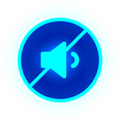
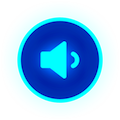
Remove iAd and Fix one sound button issue and added black launch image in launchscreen

diff --git a/SpaceUp/Controllers/GameViewController.swift b/SpaceUp/Controllers/GameViewController.swift
@@ -1,20 +1,18 @@
 import SpriteKit
 import GameKit
-import iAd
 import StoreKit
 import CoreMotion
 
 // TODO: Refactor, too many responsbilities atm
-class GameViewController: UIViewController, GKGameCenterControllerDelegate, ADInterstitialAdDelegate, GameCenterManagerDelegate, GameSceneDelegate, StartSceneDelegate, SKProductsRequestDelegate, MotionDataSource {
+class GameViewController: UIViewController, GKGameCenterControllerDelegate, GameCenterManagerDelegate, GameSceneDelegate, StartSceneDelegate, SKProductsRequestDelegate, MotionDataSource {
   // MARK: - Immutable vars
   let gameCenterManager = GameCenterManager()
   let gameData = GameData.dataFromArchive()
   let motionManager = CMMotionManager()
   
   // MARK: - Vars
-  private var interstitialAdView: InterstitialAdView?
-  private var interstitialAd: ADInterstitialAd?
-  private var numberOfRetriesSinceLastAd: UInt = 0
+//  private var interstitialAdView: InterstitialAdView?
+//  private var numberOfRetriesSinceLastAd: UInt = 0
   private var products: [SKProduct]?
   private var removeAdsProduct: SKProduct?
 
@@ -32,9 +30,6 @@ class GameViewController: UIViewController, GKGameCenterControllerDelegate, ADIn
   
   override func viewDidLoad() {
     super.viewDidLoad()
-    
-    // iAd
-    interstitialPresentationPolicy = .Manual
     
     // Configure the view.
     // skView.showsFPS = true
@@ -245,59 +240,6 @@ class GameViewController: UIViewController, GKGameCenterControllerDelegate, ADIn
     return leaderboardViewController
   }
   
-  // MARK: - Ad
-  func prepareInterstitialAd() {
-    interstitialAd = ADInterstitialAd()
-    interstitialAd!.delegate = self
-  }
-
-  func presentInterstitialAd() -> Bool {
-    if isAdsEnabled() == false {
-      print("Ads are disabled")
-      
-      return false
-    } else if interstitialAd?.loaded != true {
-      print("Ad not loaded")
-      
-      return false
-    }
-
-    // Container view
-    interstitialAdView = InterstitialAdView(frame: skView.bounds)
-    interstitialAdView!.closeButton.addTarget(self, action: #selector(GameViewController.closeInterstitialAd), forControlEvents: .TouchUpInside)
-    skView.addSubview(interstitialAdView!)
-    
-    // Pause view
-    skView.paused = true
-    
-    // Present ad in view
-    interstitialAdView!.presentInterstitialAd(interstitialAd!)
-    
-    return true
-  }
-  
-  func closeInterstitialAd() {
-    // Clean up
-    interstitialAdView?.removeFromSuperview()
-    resetInterstitialAd()
-    
-    // Restart game
-    dispatch_async(dispatch_get_main_queue()) {
-      if let gameScene = self.skView.scene as? GameScene {
-        // Unpause view
-        self.skView.paused = false
-
-        gameScene.startGame()
-      }
-    }
-  }
-  
-  func resetInterstitialAd() {
-    interstitialAd?.delegate = nil
-    interstitialAd = nil
-    interstitialAdView = nil
-  }
-  
   // MARK: - IAP
   func presentStoreActionSheet() {
     if let removeAdsProduct = removeAdsProduct {
@@ -473,13 +415,13 @@ class GameViewController: UIViewController, GKGameCenterControllerDelegate, ADIn
   
   func gameSceneDidRequestRetry(gameScene: GameScene) {
     // Show ad or restart game
-    if numberOfRetriesSinceLastAd < MinimumNumberOfRetriesBeforePresentingAd || !presentInterstitialAd() {
-      numberOfRetriesSinceLastAd = 0
-      
+//    if numberOfRetriesSinceLastAd < MinimumNumberOfRetriesBeforePresentingAd {
+//      numberOfRetriesSinceLastAd = 0
+    
       gameScene.startGame()
-    } else {
-      numberOfRetriesSinceLastAd = 0
-    }
+//    } else {
+//      numberOfRetriesSinceLastAd = 0
+//    }
   }
   
   func gameSceneDidRequestQuit(gameScene: GameScene) {
@@ -544,27 +486,6 @@ class GameViewController: UIViewController, GKGameCenterControllerDelegate, ADIn
 
   func startSceneDidRequestToggleMusic(startScene: StartScene, withButton button: SpriteButtonNode) {
     toggleMusicForScene(startScene, withButton: button)
-  }
-  
-  // MARK: - ADInterstitialAdDelegate
-  func interstitialAdDidUnload(interstitialAd: ADInterstitialAd!) {
-    resetInterstitialAd()
-  }
-  
-  func interstitialAd(interstitialAd: ADInterstitialAd!, didFailWithError error: NSError!) {
-    resetInterstitialAd()
-    
-    print(error)
-  }
-
-  func interstitialAdDidLoad(interstitialAd: ADInterstitialAd!) {
-    print("Ad loaded")
-  }
-  
-  func interstitialAdActionDidFinish(interstitialAd: ADInterstitialAd!) {
-    if interstitialAd?.loaded == true {
-      closeInterstitialAd()
-    }
   }
   
   // MARK: - SKProductsRequestDelegate

diff --git a/SpaceUp/Views/InterstitialAdView.swift b/SpaceUp/Views/InterstitialAdView.swift
@@ -1,44 +1,38 @@
 
 
 import UIKit
-import iAd
 
-class InterstitialAdView: UIView {
-  let closeButton = UIButton(type: UIButtonType.Custom)
-    
-  override init(frame: CGRect) {
-    super.init(frame: frame)
-    
-    closeButton.frame = CGRect(x: 15, y: 15, width: 32, height: 32)
-    closeButton.titleLabel?.font = UIFont(name: "FontAwesome", size: 18)
-    closeButton.titleLabel?.textAlignment = .Center
-    closeButton.setTitle("\u{f00d}", forState: .Normal)
-    closeButton.setTitleColor(UIColor.whiteColor(), forState: .Normal)
-    closeButton.backgroundColor = UIColor.blackColor()
-    closeButton.layer.cornerRadius = 6
-    closeButton.layer.zPosition = 1000
-    
-    addSubview(closeButton)
-  }
-
-  required init?(coder aDecoder: NSCoder) {
-    fatalError("init(coder:) has not been implemented")
-  }
-  
-  // MARK: - Presentation
-    /*override func viewDidLoad() {
-        super.viewDidLoad()
-        interstitial = GADInterstitial(adUnitID: "ca-app-pub-3940256099942544/4411468910")
-        
-        var request = GADRequest()
-        // Requests test ads on test devices.
-        request.testDevices = ["2077ef9a63d2b398840261c8221a0c9b"]
-        interstitial!.loadRequest(request)
-    }*/
-    
-  func presentInterstitialAd(interstitialAd: ADInterstitialAd) {
-    interstitialAd.presentInView(self)
-
-    bringSubviewToFront(closeButton)
-  }
-}
+//class InterstitialAdView: UIView {
+//  let closeButton = UIButton(type: UIButtonType.Custom)
+//    
+//  override init(frame: CGRect) {
+//    super.init(frame: frame)
+//    
+//    closeButton.frame = CGRect(x: 15, y: 15, width: 32, height: 32)
+//    closeButton.titleLabel?.font = UIFont(name: "FontAwesome", size: 18)
+//    closeButton.titleLabel?.textAlignment = .Center
+//    closeButton.setTitle("\u{f00d}", forState: .Normal)
+//    closeButton.setTitleColor(UIColor.whiteColor(), forState: .Normal)
+//    closeButton.backgroundColor = UIColor.blackColor()
+//    closeButton.layer.cornerRadius = 6
+//    closeButton.layer.zPosition = 1000
+//    
+//    addSubview(closeButton)
+//  }
+//
+//  required init?(coder aDecoder: NSCoder) {
+//    fatalError("init(coder:) has not been implemented")
+//  }
+//  
+//  // MARK: - Presentation
+//    /*override func viewDidLoad() {
+//        super.viewDidLoad()
+//        interstitial = GADInterstitial(adUnitID: "ca-app-pub-3940256099942544/4411468910")
+//        
+//        var request = GADRequest()
+//        // Requests test ads on test devices.
+//        request.testDevices = ["2077ef9a63d2b398840261c8221a0c9b"]
+//        interstitial!.loadRequest(request)
+//    }*/
+//    
+//}

diff --git a/SpaceUp/ViewNodes/ModalView.swift b/SpaceUp/ViewNodes/ModalView.swift
@@ -6,13 +6,14 @@ class ModalView: SKNode {
   // MARK: - Immutable var
   let overlay: ModalOverlayNode
   let modal = SKNode()
+    
   let modalBackground: ModalBackgroundNode
 
   // MARK: - Init
   init(size: CGSize) {
     overlay = ModalOverlayNode(rectOfSize: SceneSize)
     modalBackground = ModalBackgroundNode(size: size)
-
+    
     super.init()
     
     // Layer

diff --git a/SpaceUp/Configs/Constants.swift b/SpaceUp/Configs/Constants.swift
@@ -19,5 +19,5 @@ let MaximumCameraCrawlIncrement: CGFloat = 5
 // MARK: - Archive
 let GameDataArchiveName = "GameData"
 
-// MARK: - iAd
-let MinimumNumberOfRetriesBeforePresentingAd: UInt = 3
+//// MARK: - iAd
+//let MinimumNumberOfRetriesBeforePresentingAd: UInt = 3
